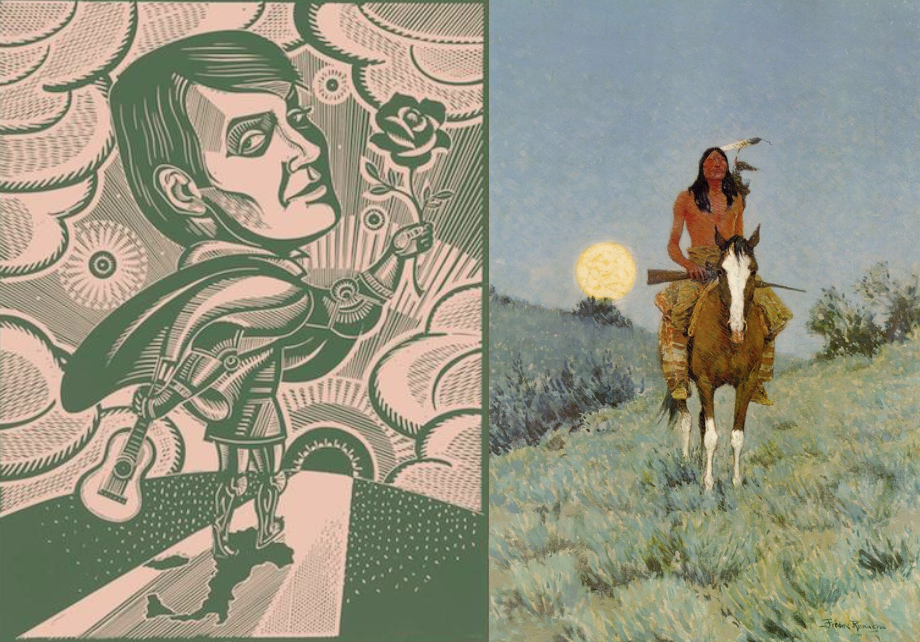
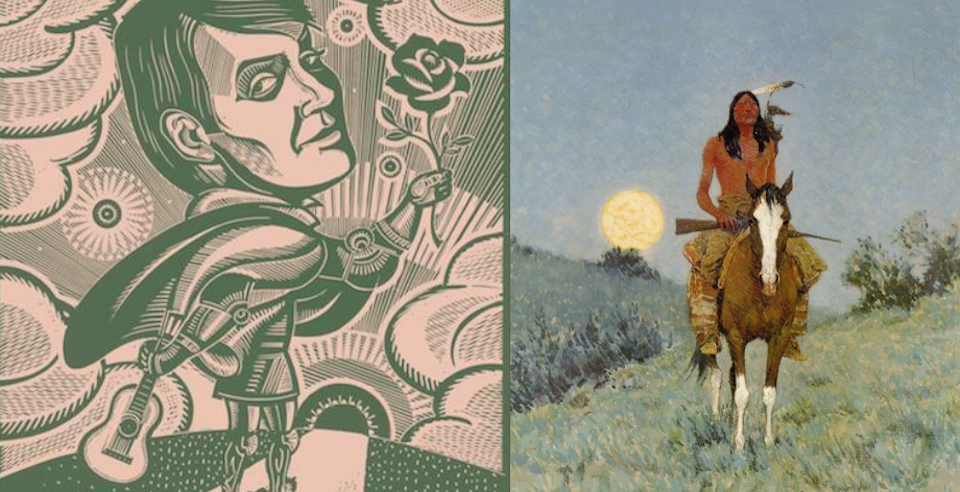
Projects page

diff --git a/projects.html b/projects.html
@@ -27,6 +27,7 @@
   <meta name="author" content="Julianne Van Wagenen">
 
   <link rel="stylesheet" href="css/styles.css?v=1.0">
+  <link rel="stylesheet" href="css/projects.css?v=1.0">
 
   <!--[if lt IE 9]>
     <script src="https://cdnjs.cloudflare.com/ajax/libs/html5shiv/3.7.3/html5shiv.js"></script>
@@ -42,7 +43,44 @@
     <a href='./pdf/Teaching Portfolio.pdf' target="_blank">Portfolio</a>
   </nav>
   <section class='main' id='projects'>
-      PROJECTS ALL OVER
+    <table align="center">
+      <tr>
+      <td><div class="imgWrap"><img src='./img/Song as Myth.png'>
+        <p class="imgDescription"><span>Song as Myth, Song as Critique :</span><br>
+          "Song as Myth, Song as Critique" is the title of my
+          dissertation project, a four-part exploration of modern mythologies —
+          Western Civilization, Jesus of Nazareth, the Wild West, and the middle class — and
+          the expressions of these myths by the Italian singer-songwriter (<i>cantautore</i>),
+          Fabrizio De André, in dialogue with a richly comparative set of cultural producers.</p>
+          </div></td>
+      <td><div class="imgWrap"><img src='./img/curarium.png'><p class="imgDescription">
+        <span>Curarium :</span><br>
+        <a href="http://curarium.com">Curarium</a> is a tool that lets users annotate, curate and augment records
+        of artworks, with the aim of constructing shareable, media-rich stories about
+        collections and the objects that comprise them. It is also a space, on the
+        developer's side, where we can begin to <a href="http://mlhplayground.org/curarium_sat/">think about visualization tools</a>
+        that make exploration and argumentation more powerful. Read more about the
+        connections between this DH project and my humanities research in the
+        <a href="https://gsas.harvard.edu/news/colloquy/spring-2016/being-human-now">Spring 2016 issue</a> of Harvard's <i>Colloquy</i>. </p></div></td>
+      </tr>
+      <tr>
+      <td><div class="imgWrap"><img src='./img/Fractal Reality.png'><p class="imgDescription">
+        <span>Fractal Realism :</span><br>
+        "Fractal Realism" is a term I have coined to categorize research I do around the short
+        stories and essays of Jorges Luis Borges, particularly as they relate to the works
+        of Italian authors like Dante Alighieri (Minimal Description in 20th-Century Short
+        Fiction: Dante’s Divine Comedy in Borges’ “The Aleph") and Massimo Bontempelli
+        ("Chess Set Theory: The Fractal Realism of Bontempelli and Borges").</p></div></td>
+      <td><div class="imgWrap"><img src='./img/Translating the Textual.png'><p class="imgDescription">
+        <span>Translating Beyond the Textual :</span> <br>
+        <a href="http://www.people.fas.harvard.edu/~juliannevanwagenen/">Translating Beyond the Textual</a>
+        is a project I developed in my first year of graduate school. It takes the idea
+        Google.Translate and extends it beyond the textual, to
+        visualize the various historical representations of "L'Après-midi d'un faune,"
+        as a poem by Mallarmé, as symphony poem for orchestra by Debussy,
+        and as a ballet by Nijinski.</p></div></td>
+      </tr>
+    </table>
   </section>
   <footer>Julianne VanWagenen — <a href='./contact.html'>Contact</a></footer>
   <script src="js/scripts.js"></script>

diff --git a/css/projects.css b/css/projects.css
@@ -1,0 +1,48 @@
+section#projects p {
+  font: 18px/1.3 lato;
+}
+
+.imgWrap {
+  position: relative;
+  padding: 40px;
+}
+
+.imgWrap img {
+  height: 205px;
+  width: 400px;
+}
+
+.imgDescription {
+  position: absolute;
+  top: 5px;
+  bottom: 0;
+  left: 20px;
+  right: 20px;
+  text-align: justify;
+
+  background: rgba(255, 255, 255, 1);
+  color: #000;
+  height: 0;
+  overflow: hidden;
+  transition: height 0.5s ease-in;
+  /*remove comment if you want a gradual transition between states
+  -webkit-transition: visibility opacity 0.2s;
+  */
+}
+
+.imgDescription span {
+  font-weight: bold;
+  font-size: 22px;
+  line-height: 35px;
+  }
+
+.imgDescription a {
+  color: rgb(223, 177, 57);
+  text-decoration: none;
+  }
+
+.imgWrap:hover .imgDescription {
+  font: 20px/1.2 lato;
+  display: block;
+  height: 100%;
+}
